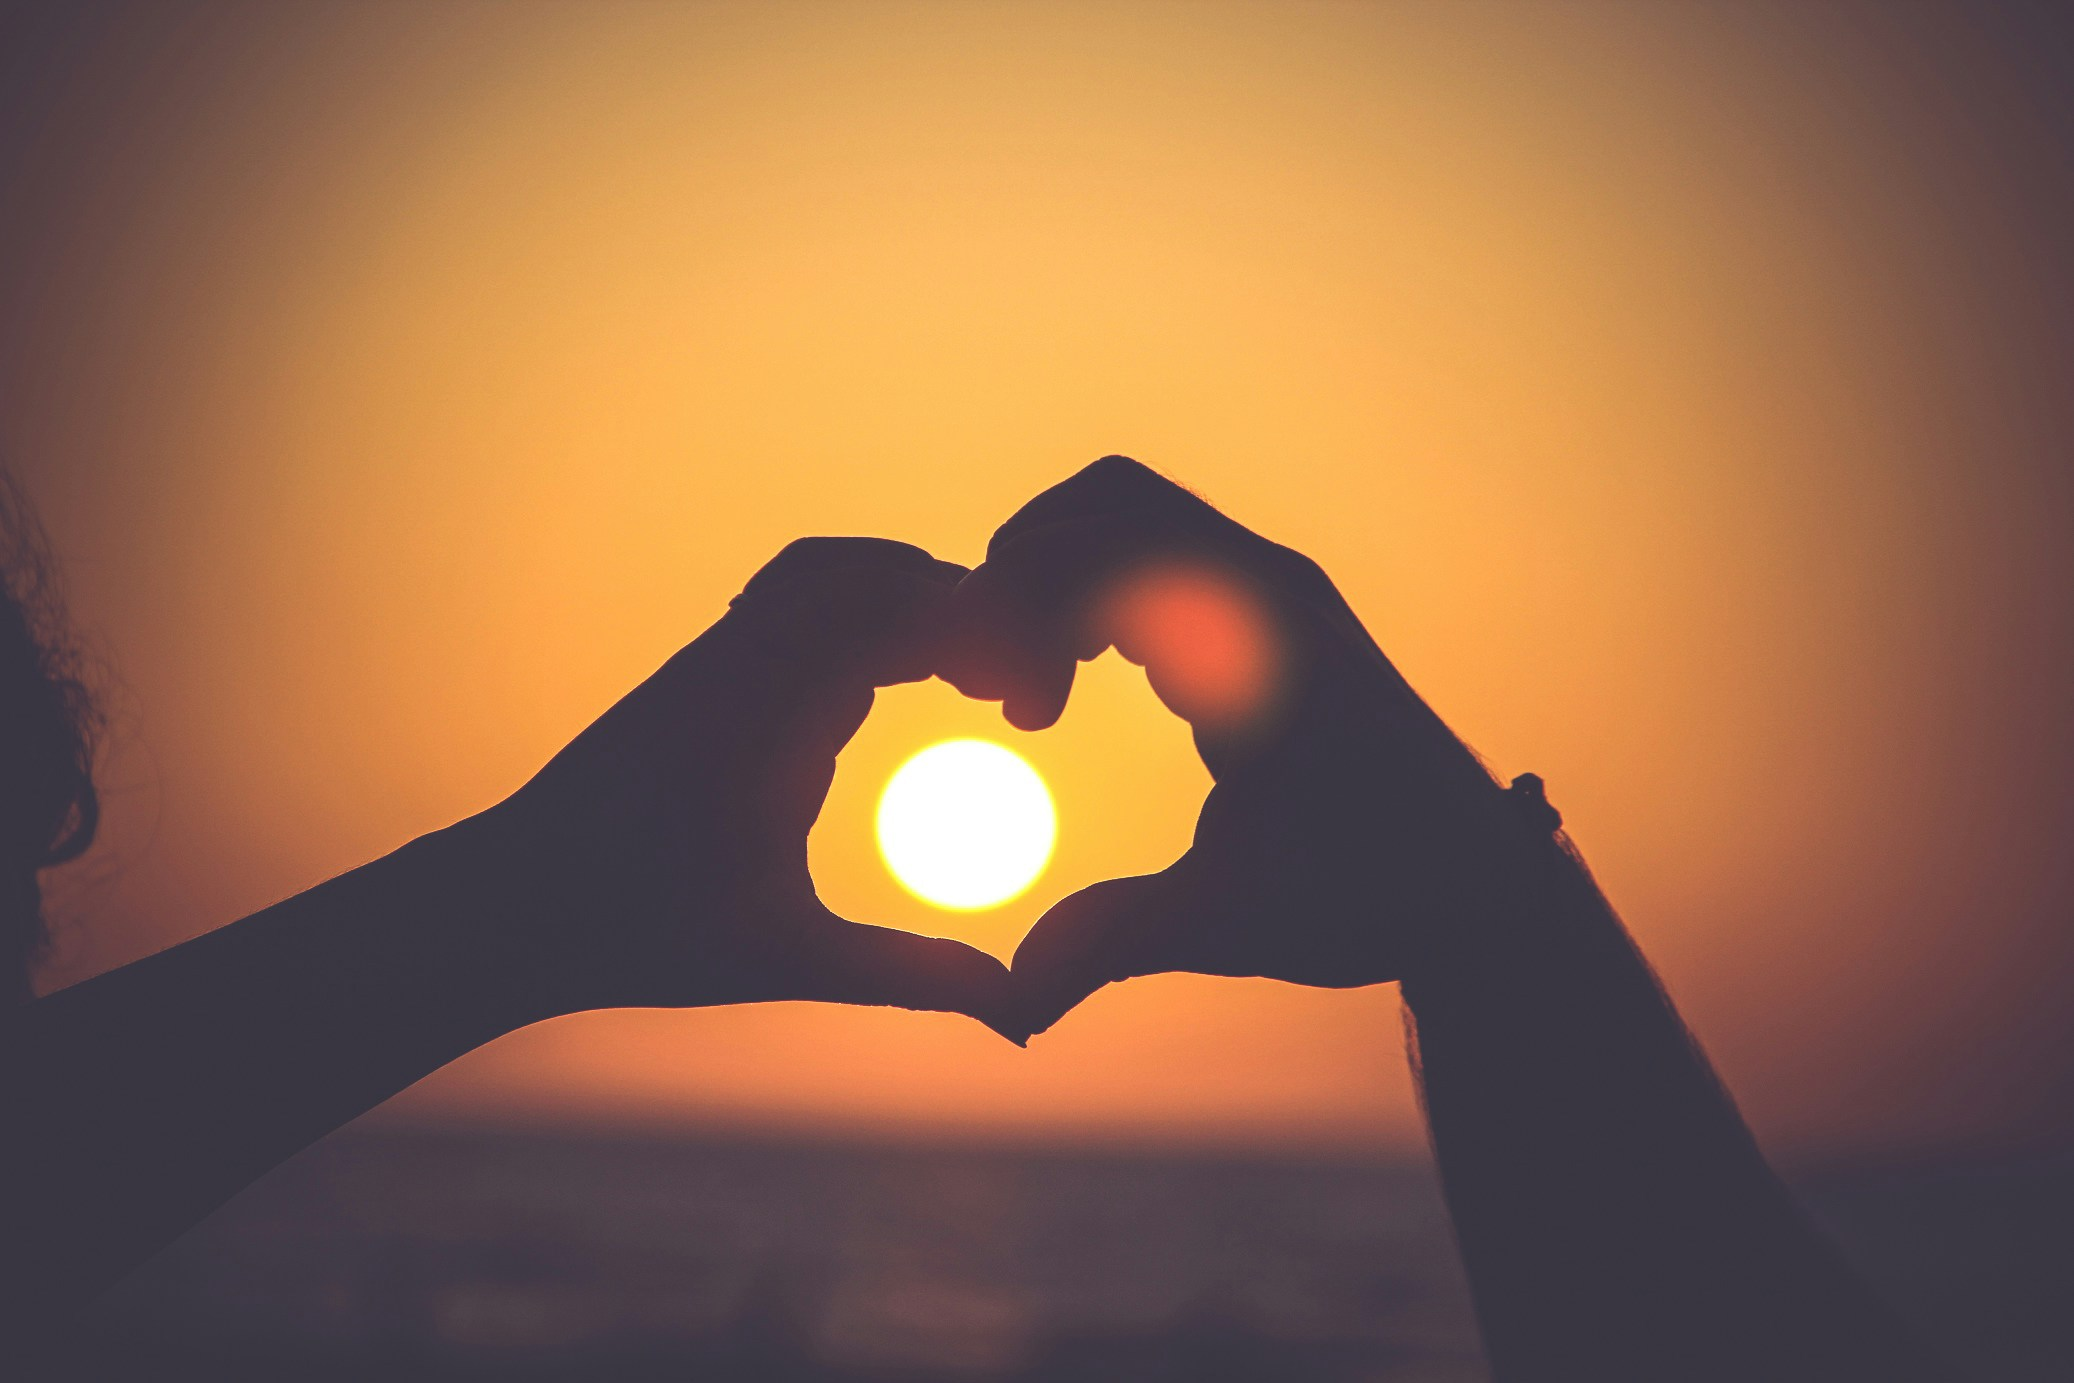
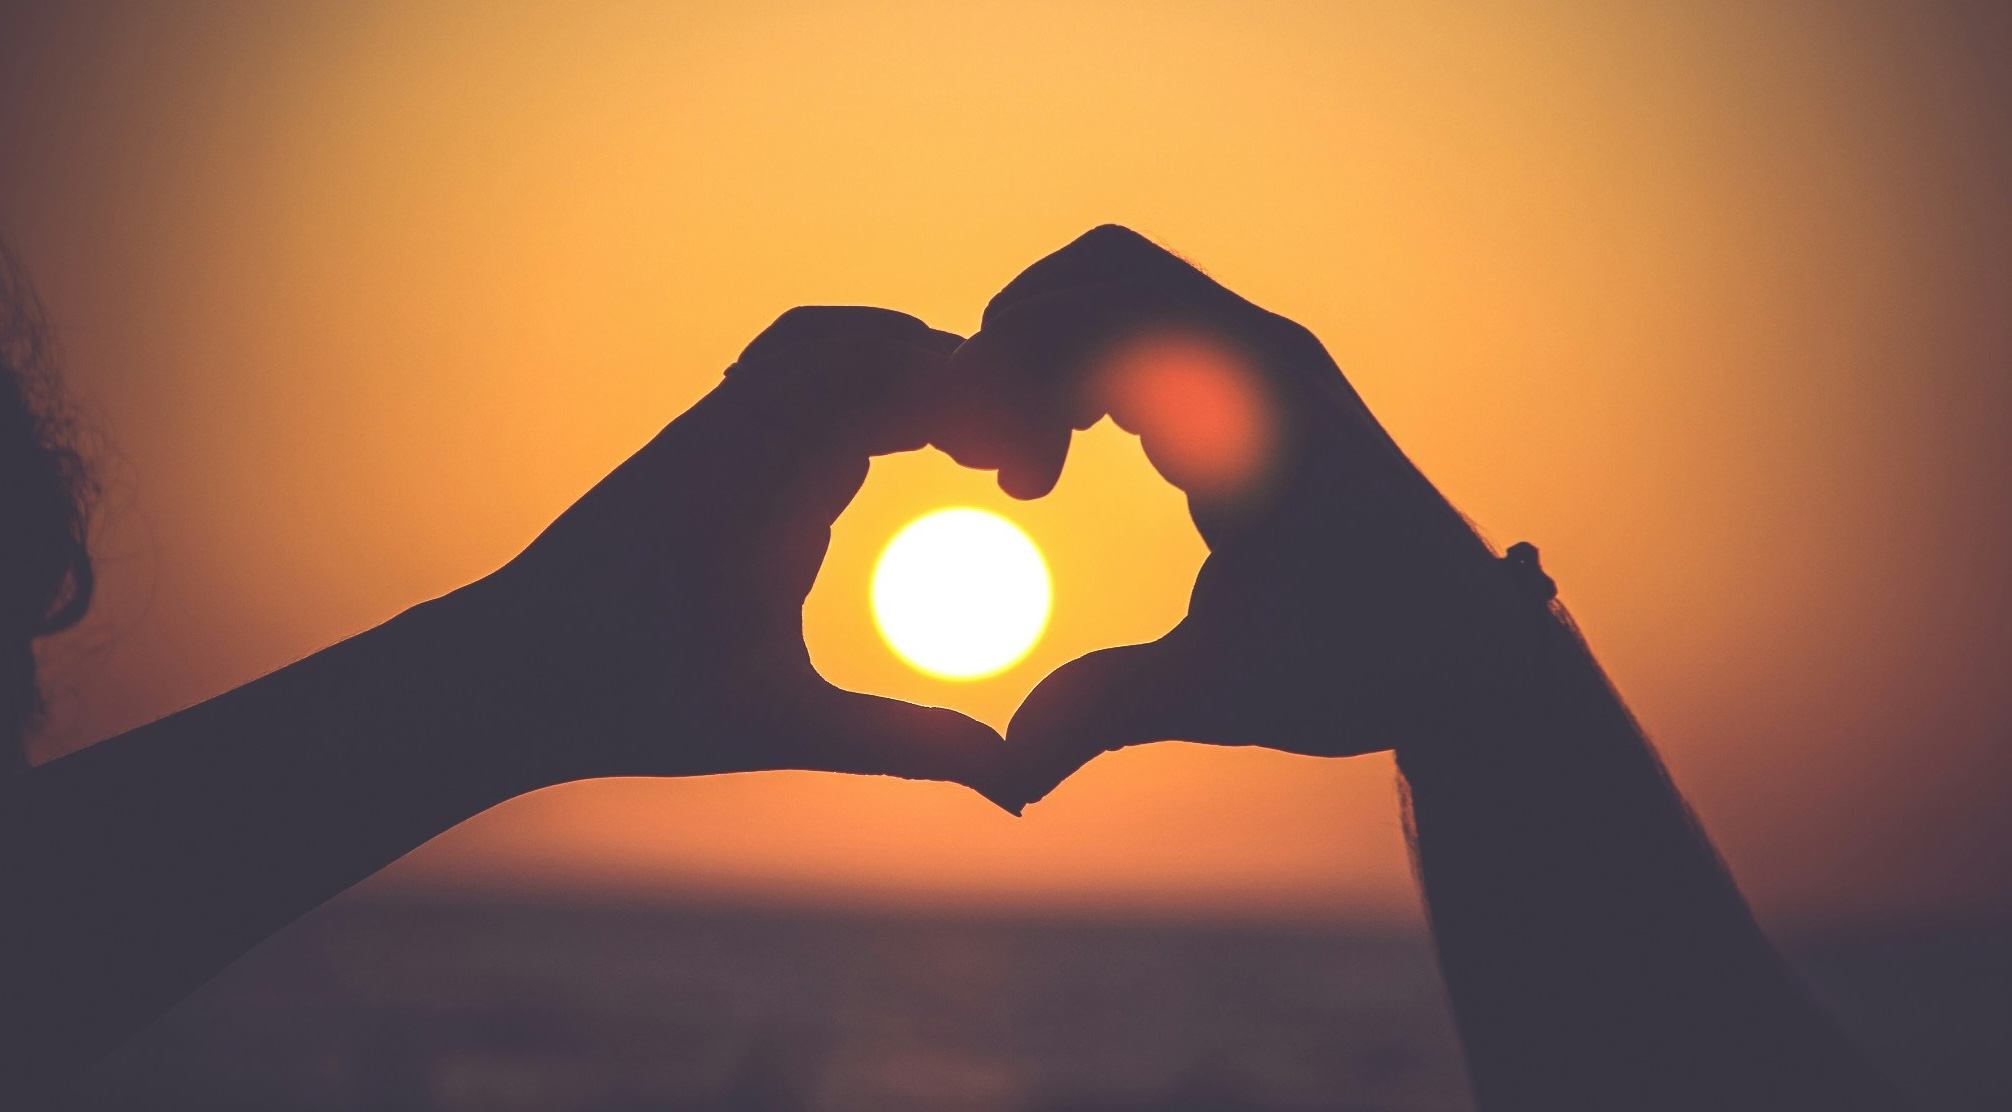
feat: Add about-us page with aurora background

diff --git a/src/componets/ui/aurora-background.tsx b/src/componets/ui/aurora-background.tsx
@@ -1,0 +1,60 @@
+"use client";
+import { cn } from "@/lib/utils";
+import React, { ReactNode } from "react";
+
+interface AuroraBackgroundProps extends React.HTMLProps<HTMLDivElement> {
+  children: ReactNode;
+  showRadialGradient?: boolean;
+}
+
+export const AuroraBackground = ({
+  className,
+  children,
+  showRadialGradient = true,
+  ...props
+}: AuroraBackgroundProps) => {
+  return (
+    <main>
+      <div
+        className={cn(
+          "transition-bg relative flex h-[91vh] flex-col items-center justify-center bg-[#0376a7] text-dark-corn dark:bg-zinc-900",
+          className,
+        )}
+        {...props}
+      >
+        <div
+          className="absolute inset-0 overflow-hidden"
+          style={
+            {
+              "--aurora":
+                "repeating-linear-gradient(100deg,#3b82f6_10%,#a5b4fc_15%,#93c5fd_20%,#ddd6fe_25%,#60a5fa_30%)",
+              "--dark-gradient":
+                "repeating-linear-gradient(100deg,#000_0%,#000_7%,transparent_10%,transparent_12%,#000_16%)",
+              "--white-gradient":
+                "repeating-linear-gradient(100deg,#fff_0%,#fff_7%,transparent_10%,transparent_12%,#fff_16%)",
+
+              "--blue-300": "#04A9EF",
+              "--blue-400": "#20dae4",
+              "--blue-500": "#02658f",
+              "--indigo-300": "#FBCC13",
+              "--violet-200": "#D4AA04",
+              "--black": "#0e969a",
+              "--white": "#006400",
+              "--transparent": "transparent",
+            } as React.CSSProperties
+          }
+        >
+          <div
+            className={cn(
+              `after:animate-aurora pointer-events-none absolute -inset-[10px] [background-image:var(--white-gradient),var(--aurora)] [background-size:300%,_200%] [background-position:50%_50%,50%_50%] opacity-50 blur-[10px] invert filter will-change-transform [--aurora:repeating-linear-gradient(100deg,var(--blue-500)_10%,var(--indigo-300)_15%,var(--blue-300)_20%,var(--violet-200)_25%,var(--blue-400)_30%)] [--dark-gradient:repeating-linear-gradient(100deg,var(--black)_0%,var(--black)_7%,var(--transparent)_10%,var(--transparent)_12%,var(--black)_16%)] [--white-gradient:repeating-linear-gradient(100deg,var(--white)_0%,var(--white)_7%,var(--transparent)_10%,var(--transparent)_12%,var(--white)_16%)] after:absolute after:inset-0 after:[background-image:var(--white-gradient),var(--aurora)] after:[background-size:200%,_100%] after:[background-attachment:fixed] after:mix-blend-difference after:content-[""] dark:[background-image:var(--dark-gradient),var(--aurora)] dark:invert-0 after:dark:[background-image:var(--dark-gradient),var(--aurora)]`,
+
+              showRadialGradient &&
+                `[mask-image:radial-gradient(ellipse_at_100%_0%,black_10%,var(--transparent)_70%)]`,
+            )}
+          ></div>
+        </div>
+        {children}
+      </div>
+    </main>
+  );
+};

diff --git a/src/componets/ui/AuroraBackground.tsx b/src/componets/ui/AuroraBackground.tsx
@@ -1,0 +1,32 @@
+"use client";
+
+import { motion } from "motion/react";
+import React from "react";
+import { AuroraBackground } from "../ui/aurora-background";
+
+export function AuroraBackgroundDemo() {
+  return (
+    <AuroraBackground>
+      <motion.div
+        initial={{ opacity: 0.0, y: 40 }}
+        whileInView={{ opacity: 1, y: 0 }}
+        transition={{
+          delay: 0.3,
+          duration: 0.8,
+          ease: "easeInOut",
+        }}
+        className="relative flex flex-col gap-4 items-center justify-center px-4"
+      >
+        <div className="text-3xl md:text-7xl font-bold dark:text-white text-center">
+          Background lights are cool you know.
+        </div>
+        <div className="font-extralight text-base md:text-4xl dark:text-neutral-200 py-4">
+          And this, is chemical burn.
+        </div>
+        <button className="bg-black dark:bg-white rounded-full w-fit text-white dark:text-black px-4 py-2">
+          Debug now
+        </button>
+      </motion.div>
+    </AuroraBackground>
+  );
+}

diff --git a/tailwind.config.ts b/tailwind.config.ts
@@ -11,11 +11,20 @@ const config: Config = {
     extend: {
       animation: {
         scroll: 'scroll var(--animation-duration, 40s) var(--animation-direction, forwards) linear infinite',
+        aurora: "aurora 60s linear infinite",
       },
       keyframes: {
         scroll: {
           to: {
             transform: 'translate(calc(-50% - 0.5rem))',
+          },
+        },
+        aurora: {
+          from: {
+            backgroundPosition: "50% 50%, 50% 50%",
+          },
+          to: {
+            backgroundPosition: "350% 50%, 350% 50%",
           },
         },
       },

diff --git a/src/app/about-us/page.tsx b/src/app/about-us/page.tsx
@@ -1,0 +1,7 @@
+import { AuroraBackgroundDemo } from "@/componets/ui/AuroraBackground";
+
+export default function Page() {
+    return (
+        <AuroraBackgroundDemo />
+    );
+}
